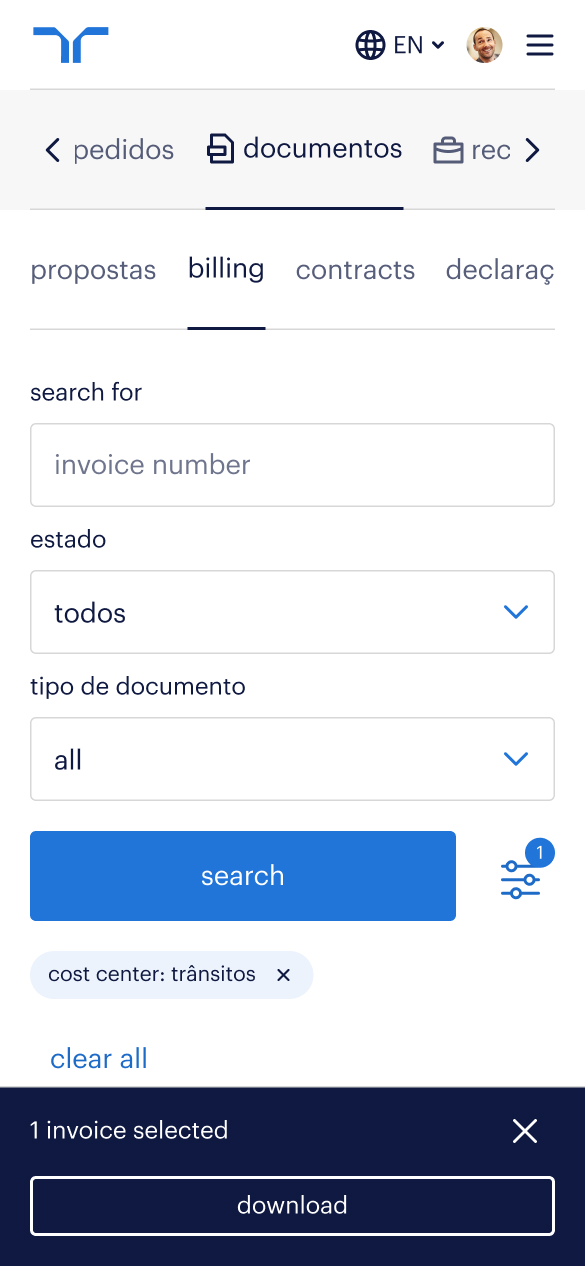
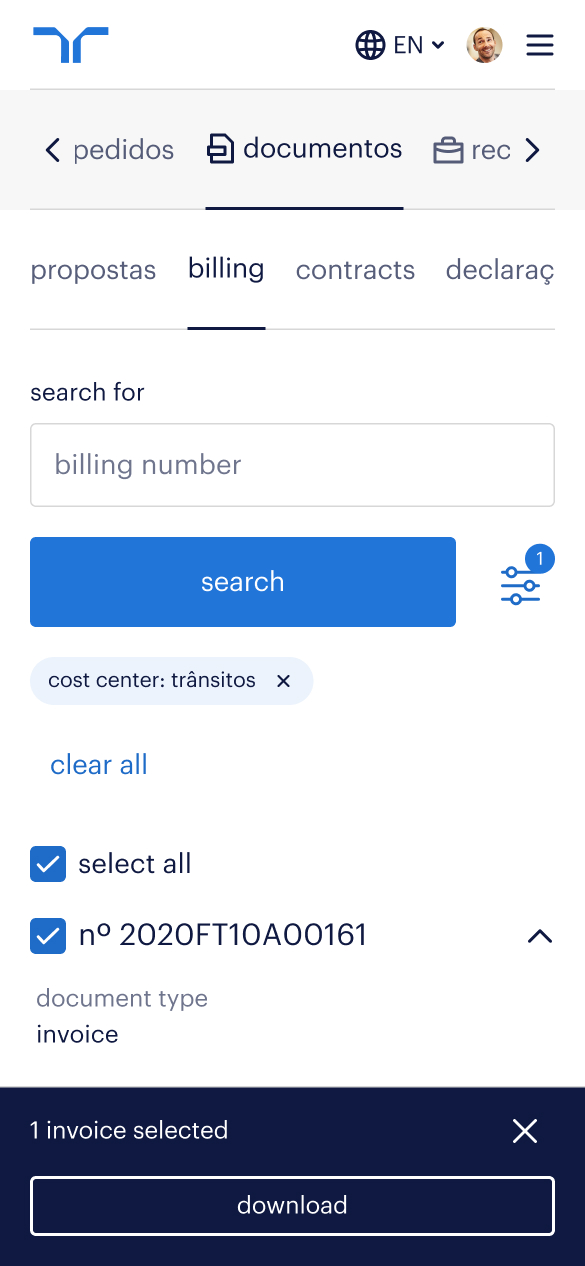
Add files via upload

diff --git a/about.html b/about.html
@@ -1,0 +1,38 @@
+<!DOCTYPE html>
+<html>
+<head>
+<title>Portfolio</title>
+<link rel="stylesheet" href="style.css">
+<link rel="preconnect" href="https://fonts.googleapis.com">
+<link rel="preconnect" href="https://fonts.gstatic.com" crossorigin>
+<link href="https://fonts.googleapis.com/css2?family=Poppins:ital,wght@0,400;0,500;0,600;0,700;0,800;1,400;1,500;1,600;1,700;1,800&display=swap" rel="stylesheet">
+<style>
+
+</style>
+</head>
+
+<body class="home">
+    <header>
+        <nav>
+            <a class="navigation-item active" href="#">About</a>
+            <a class="navigation-item" href="index.html">Projects</a>
+        </nav>
+    </header>
+
+    <main>
+        <div class="intro">
+            <h4 class="text-primary">Hi, I'm Francisco Wanzeller 👋</h4>
+            <p>I am a UX/UI Designer.</p>
+            <p>To me design is all about people and empathy! I am fascinating how through design we can turn complex ideas into useful products by using simplicity.  I love to understand what the user needs and ideate a meaningful product to them. During the last few years in technology area, I've found myself exploring interaction design, visual design and front-end.</p>
+            <p>franciscowanzeller@gmail.com</p>
+        </div>
+        
+
+    </main>
+
+    <script src="script.js"></script>
+
+
+</body>
+
+</html>

diff --git a/clientportal.html b/clientportal.html
@@ -26,9 +26,8 @@
 <body>
     <header>
         <nav>
-            <a class="navigation-item" href="#">About</a>
+            <a class="navigation-item" href="about.html">About</a>
             <a class="navigation-item" href="index.html">Projects</a>
-            <a class="navigation-item" href="#">Contact me</a>
         </nav>
     </header>
 
@@ -170,7 +169,7 @@
 
                     <div class="grid-item">
                         <div class="thumbnail">
-                            <img src="./images/client-portal/Timesheet Popup Mobile.jpg">
+                            <img src="./images/client-portal/Documentos - Filters mobile.png">
                         </div>
                     </div>
                    
@@ -189,7 +188,7 @@
                     </div>
                     <div class="grid-item">
                         <div class="thumbnail">
-                            <img src="./images/client-portal/Timesheet Popup Mobile.jpg">
+                            <img src="./images/client-portal/Timesheet Details - Blocked.jpg">
                         </div>
                     </div>
 

diff --git a/impf-finder.html b/impf-finder.html
@@ -26,9 +26,8 @@
 <body>
     <header>
         <nav>
-            <a class="navigation-item" href="#">About</a>
+            <a class="navigation-item" href="about.html">About</a>
             <a class="navigation-item" href="index.html">Projects</a>
-            <a class="navigation-item" href="#">Contact me</a>
         </nav>
     </header>
 
@@ -57,6 +56,12 @@
             <li>Designed user flows and created high-fidelity mockups and prototypes, ensuring alignment with business requirements.</li>
             <li>Collaborated within Agile methodology with project managers, product owners, and developers to define requirements, refine designs, and prioritize based on project goals and user needs.</li>
             <li>Worked closely with the development team to guarantee accurate implementation of designs.</li>
+        </div>
+
+
+        <div class="margin-top-large">
+            <h3 class="semi-bold color-secondary--brand">Patient User Flow</h3>
+            <img src="./images/impf-finder/user flow - patient.png" alt="patient user flow" class="max-full-width">
         </div>
 
         

diff --git a/index.html b/index.html
@@ -22,9 +22,8 @@
 <body class="home">
     <header>
         <nav>
-            <a class="navigation-item" href="#">About</a>
+            <a class="navigation-item" href="about.html">About</a>
             <a class="navigation-item active" href="#">Projects</a>
-            <a class="navigation-item" href="#">Contact me</a>
         </nav>
     </header>
 
@@ -66,13 +65,13 @@
             </div>
         </div>
 
-        <div id="section-experience">
+        <!--<div id="section-experience">
             <div>
                 <h2>My experience</h2>
                 <p>After I had finished my degree in Multimedia Systems I started my career in the technology field. I began with frontend development, mainly with HTML5 and CSS3. Meanwhile, I also participated in some design projects. During these projects I fall in love with design and since around 2015 I started to focus on UX/UI design for mobile and web applications.</p>
             </div>
 
-        </div>
+        </div>-->
     </main>
 
     <script src="script.js"></script>
